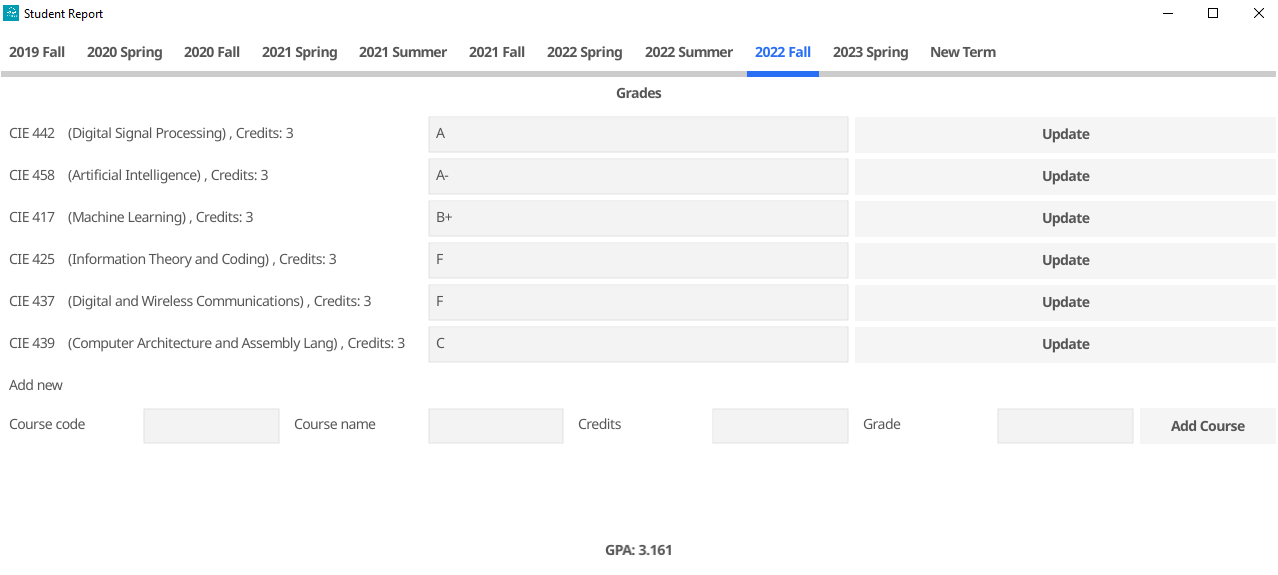
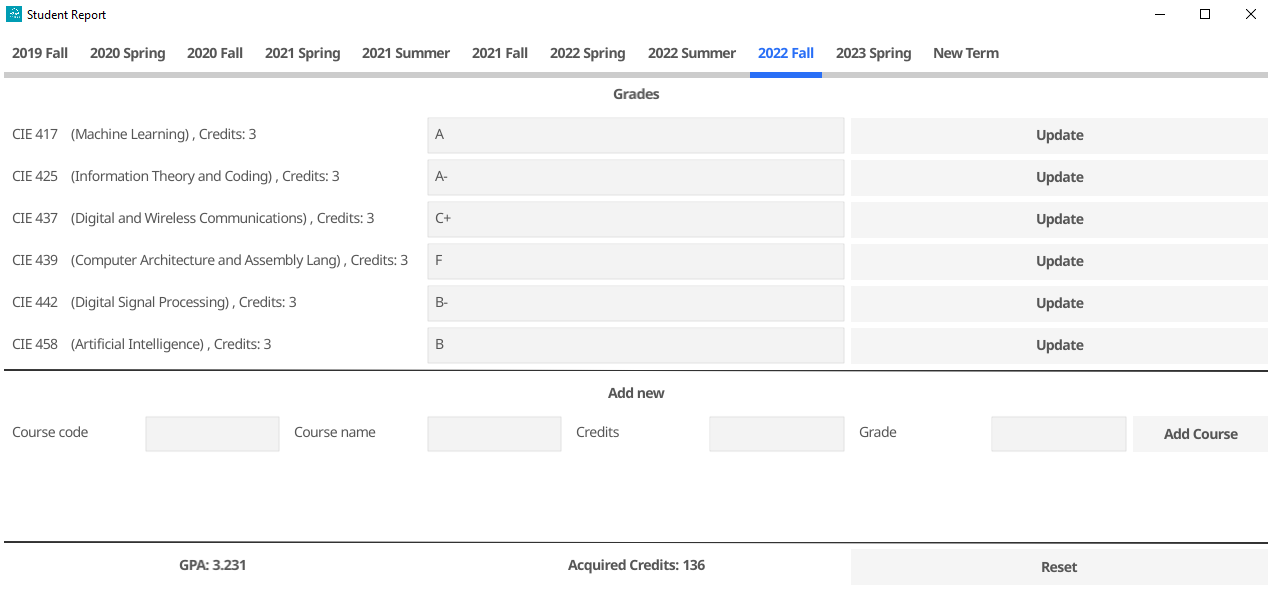
.

diff --git a/GuiHandler.go b/GuiHandler.go
@@ -209,7 +209,7 @@ func (gh *GuiHandler) NewTab(term string , grades map[string]*CourseGrade) *cont
 			
 		items = append(items, container.NewVBox(
 			canvas.NewLine(color.Gray{50}) ,
-			widget.NewLabel("Add new") ,
+			widget.NewLabelWithStyle("Add new" , fyne.TextAlignCenter, fyne.TextStyle{Bold: true}), 
 			cont,
 			))
 		return container.NewTabItem(term, container.NewVBox(items...))
